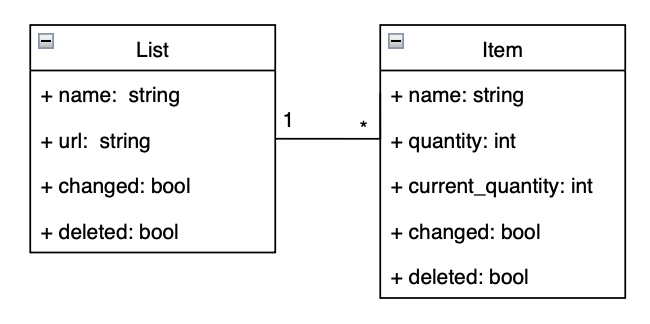
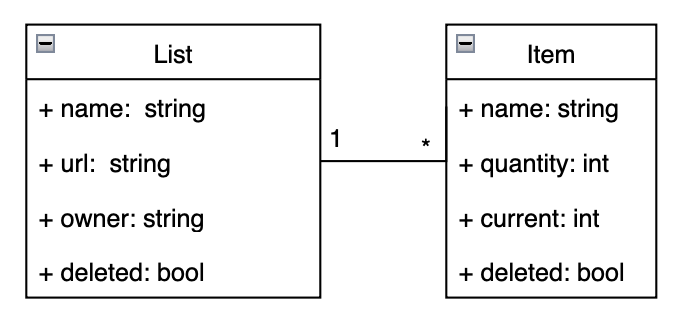
topic 1

Changed region(s): [[0.0308, 0.0617, 0.9846, 0.9259]]

diff --git a/docs/Report.md b/docs/Report.md
@@ -20,33 +20,81 @@
 
 - `Local-First Design`: prioritizes a local-first approach, running code on user devices for data persistence. This ensures offline functionality, enhancing user experience by allowing them to access and modify their shopping lists without an internet connection.
 
-- `Collaborative Lists`: ach shopping list has a unique ID, facilitating collaboration. Users with the list ID can seamlessly collaborate, enabling them to collectively manage and update shopping lists.
+- `Collaborative Lists`: each shopping list has a unique ID, facilitating collaboration. Users with the list ID can seamlessly collaborate, enabling them to collectively manage and update shopping lists.
 
 ## 1. Technology
 
-The selected client-side technologies prioritize simplicity and user-friendliness, placing a strong emphasis on delivering a seamless experience, especially in web applications where ease of installation and use is paramount. The selected technologies for this project encompass:
+We opted for user-friendly web application, prioritizing simplicity in technology choices for easy installation and use.
 
 - `Node.js`, for client and server side applications;
-- `SQLite3`, for database management system;
+- `SQLite3`, for local database management system;
 
-Additionally, the project employed selected technologies and libraries for the implementation of distributed system connections, cloud infrastructure management, and the maintenance of integrity and consistency:
+Additionally, for distributed system connections, cloud management, and maintaining integrity and consistency:
 
 - `ZeroMQ`, for high-performance asynchronous messaging;
 - `UUID`, for the generation of unique identifiers across the entire system;
 
+## 1. Cart API
+
+Each node in the distributed system instantiates and manipulates a "Cart" object that gathers CRUD (Create, Read, Update, Delete) functions and data consistency features.
+
+```js
+const cart = new Cart(<node-id>);
+cart.load(db);
+
+const url = cart.createList('List A');
+cart.deleteItem(url, 'Apple');
+cart.updateItem(url, 'Soup', 6, 7);
+
+cart.info()     // get information for frontend
+cart.toString() // serialize object for messaging and merge
+
+// syncronization
+cart1.merge(cart2.toString())
+cart2.merge(cart1.toString())
+```
+
+### Advantages:
+
+- Functional for any node in the system (client or server);
+- Encapsulates complex operations and algorithms for data consistency (CRDTs);
+- It is the only variable that nodes have to manipulate, simplifying concurrency control.
+
+### Implementation
+
+- Cart contains a Map between the URL of each list and an AWORSet, enabling constant-time data retrieval for a list, O(1);
+- AWORSet (*Add Wins Observed Remove Set*), a State-Based CRDT, keeps track of all causal contexts of the list but only retains in memory the items that have not been removed, improving spatial performance;
+- GCounter (*Grow-only Counter*) is employed to manipulate the total and partial quantities of each item;
+
+```js
+class Cart {
+  this.lists = new Map();   // Map<url, AWORSet>
+}
+
+class AWORSet {
+  this.set = []             // [(itemName, GCounter, (nodeID, version))]
+  this.causalContext = []   // [(nodeID, version)]
+}
+
+class GCounter {
+  this.currentValue = 0;
+  this.totalValue = 0;
+}
+```
+
 ## 2. Local First
 
-The primary focus initially lies in achieving a `Local First` [5] behavior. To accomplish this, the persistence of data from recognized lists becomes crucial. In the initial phase, the client app checks for the presence of a local database:
+The persistence of data from recognized lists becomes crucial. In the initial phase, the client app checks for the presence of a local database:
 
 - If present, loads its content, lists and corresponding items;
-- If absent, creates an empty database following the predefined schema presented in [Figure 1];
+- If absent, creates an empty database following the predefined schema;
 
 <p align="center">
   <img src="../imgs/Database.png">
   <p align="center">Figure 1: Database Schema</p>
 </p><br>
 
-The boolean attributes `changed` and `deleted` play a crucial role in identifying, under adverse conditions, the lists or items that have been modified or deleted by the client but have not yet been included in the cloud backup.
+-> Repare-se que só donos podem eliminar o seu próprio
 
 To enable the secure sharing of shopping lists between users, two requirements should be concurrently met upon their creation:
 
